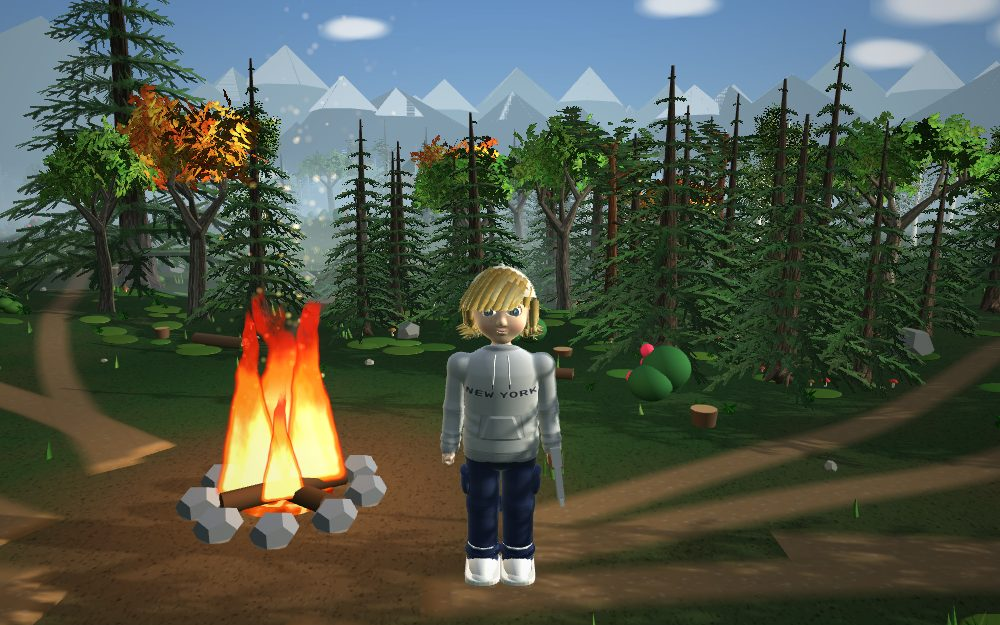
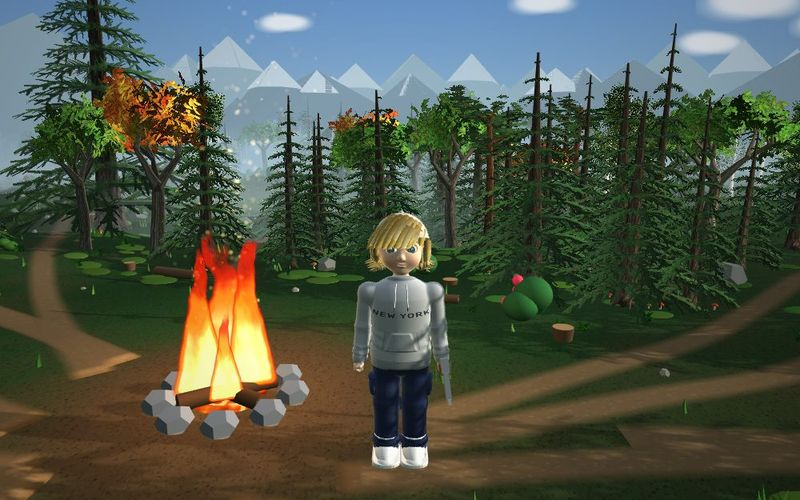
Kvalitet fase A del 1: Om med pappa, oppdaterte nyheter, riktige app-tekster, tilgjengelige spillkort, mindre bilder; Era Defenders v0.18.1 tillater zoom på menyer
Spillmekanikk, lagringsnøkler og GoatCounter er uendret. Nytt kortoppsett er ikke med (venter på Evens godkjenning).

Claude-Session: https://claude.ai/code/session_01MHiEAzBznnujooqyTbQ68h

diff --git a/index.html b/index.html
@@ -262,9 +262,9 @@
     </div>
     <div class="spill-liste">
       <!-- Nytt spill? Kopier et spillkort og bytt lenke, bilde, navn, stikkord og tekst. -->
-      <a class="spillkort inn" href="spill/eventyrspill/" aria-label="Spill Era Defenders">
+      <a class="spillkort inn" href="spill/eventyrspill/">
         <div class="bilde">
-          <img src="bilder/eventyr-epoke4.jpg" alt="Skjermbilde fra Era Defenders: piratskipet med basen og Piratkapteinen" loading="lazy">
+          <img src="bilder/eventyr-kort.jpg" alt="Skjermbilde fra Era Defenders: piratskipet med basen og Piratkapteinen" loading="lazy">
           <span class="avspill" aria-hidden="true"></span>
         </div>
         <div class="tekst">
@@ -275,7 +275,7 @@
         </div>
       </a>
 
-      <a class="spillkort inn" href="spill/morkeskogen/" aria-label="Spill Mørkeskogen">
+      <a class="spillkort inn" href="spill/morkeskogen/">
         <div class="bilde">
           <img src="bilder/morkeskogen.jpg" alt="Skjermbilde fra Mørkeskogen: spilleren ved bålet i skogen" loading="lazy">
           <span class="avspill" aria-hidden="true"></span>
@@ -288,7 +288,7 @@
         </div>
       </a>
 
-      <a class="spillkort inn" href="spill/fossilspillet/" aria-label="Spill Fossil Zoo">
+      <a class="spillkort inn" href="spill/fossilspillet/">
         <div class="bilde">
           <img src="bilder/fossilspillet.jpg" alt="Skjermbilde fra Fossil Zoo: graveren i en tunnel med mammuten som hjelper og glitrende fossiler i jorda" loading="lazy">
           <span class="merke klar">Nytt</span>
@@ -316,19 +316,19 @@
         <span class="ikon" aria-hidden="true">✨</span>
         <time datetime="2026-10-31">31. oktober 2026</time>
         <h3>Nye navn og enklere start</h3>
-        <p>Eventyrspillet heter nå Era Defenders, og fossilspillet heter Fossil Zoo. Alle spillene har fått en tydeligere startskjerm.</p>
+        <p>Spillene heter nå Era Defenders, Mørkeskogen og Fossil Zoo. Alle har fått en startskjerm som viser målet og hvordan du styrer.</p>
       </article>
       <article class="nyhet inn">
         <span class="ikon" aria-hidden="true">🦴</span>
         <time datetime="2026-10-31">31. oktober 2026</time>
-        <h3>Nytt spill: Fossil Zoo</h3>
-        <p>Grav etter fossiler gjennom istiden, krittiden og juratiden. Hver bit gir en ledetråd – klarer du å gjette dyret før det våkner?</p>
+        <h3>Fossil Zoo: tre tidsepoker og 13 dyr</h3>
+        <p>Grav deg ned gjennom jordas oldtid, mellomalder og nytid. Hver fossilbit gir en ledetråd – klarer du å gjette dyret før det våkner?</p>
       </article>
       <article class="nyhet inn">
         <span class="ikon" aria-hidden="true">⏳</span>
         <time datetime="2026-10-31">31. oktober 2026</time>
-        <h3>Eventyrspillet har fått sju tidsepoker</h3>
-        <p>Nytt: Robotfabrikken med EMP-kaster og Tidsvirvelen med tidsvåpen som fryser fiendene. Reis fra steinalderen helt til tidens ende!</p>
+        <h3>Era Defenders: sju tidsepoker</h3>
+        <p>Reis fra steinalderen helt til tidens ende. Nye steder er Robotfabrikken og Tidsvirvelen, med våpen som fryser fiendene.</p>
       </article>
     </div>
   </section>
@@ -342,17 +342,18 @@
     <div class="om">
       <div class="boks inn">
         <h3>Hvem står bak?</h3>
-        <p>EVN Studio er et spillstudio startet av Even, 9 år. Her lager vi spill med spennende verdener, morsomme utfordringer og nye eventyr. Even finner på ideene, bestemmer hvordan spillene skal være og tester dem selv. Han får hjelp av KI til å bygge spillene.</p>
+        <p>EVN Studio er spillstudioet til Even, 9 år, og pappaen hans. Even finner på spillene, bestemmer hvordan de skal være og tester dem selv. Sammen bruker de KI til å gjøre ideene til ekte spill som andre barn kan spille.</p>
         <p>Spillene er gratis, og alle kan prøve dem!</p>
-        <p id="personvern" class="liten"><b>Personvern:</b> Vi teller anonymt hvor mange som besøker siden, starter et spill og omtrent hvor lenge det spilles, med GoatCounter. Vi bruker ingen informasjonskapsler og samler ikke inn navn, e-post eller annen informasjon om hvem du er.</p>
+        <p id="personvern" class="liten">For voksne: Vi samler ikke inn navn eller e-post, og bruker ingen informasjonskapsler. Les mer om <a href="personvern/">personvern</a> og <a href="sikkerhet/">sikkerhet</a>.</p>
       </div>
       <div class="boks inn">
         <h3>📱 Spill som app</h3>
         <ol>
           <li>Åpne et spill i Safari eller Chrome.</li>
-          <li>Velg <b>Del → Legg til på Hjem-skjerm</b> (iPhone) eller <b>Installer app</b> (Android).</li>
-          <li>Spillet starter i fullskjerm, og fremgangen lagres.</li>
+          <li>Velg <b>Del → Legg til på Hjem-skjerm</b> (iPhone) eller <b>Legg til på startskjermen</b> (Android).</li>
+          <li>Nå har du spillet som et ikon. Fremgangen lagres på enheten.</li>
         </ol>
+        <p class="liten">Era Defenders åpnes i fullskjerm som en egen app. De andre spillene åpnes i nettleseren.</p>
       </div>
     </div>
   </section>

diff --git a/spill/eventyrspill/index.html b/spill/eventyrspill/index.html
@@ -6,8 +6,8 @@
 <meta http-equiv="Content-Security-Policy" content="default-src 'self'; script-src 'self' 'unsafe-inline' https://gc.zgo.at; style-src 'self' 'unsafe-inline'; font-src 'self'; img-src 'self' data: blob: https://evnstudio.goatcounter.com; connect-src 'self' https://evnstudio.goatcounter.com; media-src 'self' data: blob:; worker-src 'self'; manifest-src 'self'; object-src 'none'; base-uri 'self'; form-action 'none'; upgrade-insecure-requests">
 <meta name="referrer" content="strict-origin-when-cross-origin">
 <!-- EVN-SIKKERHET slutt -->
-<meta name="viewport" content="width=device-width, initial-scale=1, maximum-scale=1, user-scalable=no">
-<title>Era Defenders – v0.18</title>
+<meta name="viewport" content="width=device-width, initial-scale=1">
+<title>Era Defenders – v0.18.1</title>
 <link rel="manifest" href="manifest.json">
 <link rel="icon" href="ikoner/ikon-192.png">
 <link rel="apple-touch-icon" href="ikoner/apple-touch-icon.png">
@@ -18,6 +18,8 @@
 <meta name="apple-mobile-web-app-status-bar-style" content="black-translucent">
 <style>
   html, body { margin: 0; height: 100%; background: #10180f; overflow: hidden; font-family: system-ui, sans-serif; }
+  /* Zoom er tillatt (WCAG 1.4.4). Spillflaten bruker knip/dra selv; knapper og menyer slipper dobbelttrykk-zoom. */
+  button, a, summary, [role="button"] { touch-action: manipulation; }
   canvas { display: block; width: 100%; height: 100%; cursor: none; touch-action: none; -webkit-user-select: none; user-select: none; -webkit-touch-callout: none; }
   #baseKnapp { position: fixed; top: 16px; left: 50%; transform: translateX(-50%); padding: 10px 16px; font-size: 16px; font-weight: bold;
     background: #6b4a2b; color: #ffe9b0; border: 3px solid #3d2a17; border-radius: 10px; cursor: pointer; display: none; }

diff --git a/sikkerhet/index.html b/sikkerhet/index.html
@@ -42,7 +42,7 @@
 <header><div class="bredde"><a href="../"><img src="../logo-lys.png" alt="EVN Studio" width="59" height="44"></a><a href="../">← Til forsiden</a></div></header>
 <main><div class="bredde">
 <h1>Sikkerhet</h1>
-<p class="ingress">EVN Studio er et lite, ikke-kommersielt nettsted med gratis spill i nettleseren. Spillene er laget av Even (9 år) sammen med en forelder. Denne siden er skrevet for foreldre, skoler og IT-avdelinger som vil vurdere nettstedet.</p>
+<p class="ingress">EVN Studio er et lite, ikke-kommersielt nettsted med gratis spill i nettleseren. Spillene er laget av Even (9 år) og pappaen hans. Denne siden er skrevet for foreldre, skoler og IT-avdelinger som vil vurdere nettstedet.</p>
 <p class="oppdatert">Sist oppdatert 31.10.2026</p>
 
 <h2>Kort fortalt</h2>

diff --git a/spill/eventyrspill/sw.js b/spill/eventyrspill/sw.js
@@ -1,6 +1,6 @@
 // Service worker: gjør at spillet kan spilles uten internett etter første gang.
 // Øk versjonsnummeret når spillet oppdateres, så mobilen henter den nye versjonen.
-const CACHE = 'eventyrspill-v0.20';
+const CACHE = 'eventyrspill-v0.21';
 const FILER = ['./', 'index.html', 'manifest.json', 'ikoner/logo.png', 'ikoner/ikon-192.png', 'ikoner/ikon-512.png', 'ikoner/ikon-maskable-512.png', 'ikoner/apple-touch-icon.png'];
 
 self.addEventListener('install', e => {

diff --git a/ENDRINGSLOGG.md b/ENDRINGSLOGG.md
@@ -6,6 +6,7 @@ er små – se på retning over flere uker, ikke på enkeltdager.
 
 | Dato | Hva | Spill | Kan påvirke |
 |---|---|---|---|
+| 2026-10-31 (FASEATID) | **Kvalitet fase A, del 1.** Om-teksten sier nå «Even, 9 år, og pappaen hans». Nyhetene er oppdatert til dagens spillnavn og innhold. «Spill som app» stemmer for hvert spill. Personvernavsnittet i Om er kortet ned til en lenke. Spillkortene har fått riktig tilgjengelig navn (WCAG 2.5.3). Bildene er gjort mindre: forsiden er 421 kB på mobil, mot 601 kB før. Era Defenders v0.18.1 tillater zoom (WCAG 1.4.4): knip på menyene zoomer, mens spillflaten er uendret. Spillkortenes oppsett er ikke endret, det venter på at Even godkjenner det. | Forside, Era Defenders | Ingen forventet effekt på spillstarter |
 | 2026-10-31 ca. 19:46 | **Sikkerhet fase 2–3.** three.js r128 og skrifter (Rubik, Nunito, Lilita One) ligger nå på evnstudio.no i stedet for cdnjs og Google Fonts. Innholdspolicy (CSP) og referrer-policy på alle sider. Nye sider: /sikkerhet/, /personvern/ og /.well-known/security.txt, med lenker i bunnteksten. Spillmekanikk, lagring og statistikk er uendret. Commit c8b1b00. | Alle | Ingen forventet effekt. Ellers kan det tyde på at CSP blokkerer statistikken. |
 | 2026-10-31 ca. 16:40 | Fossil Zoo v0.4 → v0.6 fra Fossil-samtalen: tre tidsepoker med egne verdener, 13 dyr, «Tau opp», tidsepoke-velger. Gammel lagring flyttes over automatisk (funnede bein og vekkede dyr beholdes, gravingen starter på nytt). Avslutt spør først. Commit e60f13e. | Fossil Zoo | Spillstarter, spilletid |
 | 2026-10-31 ca. 16:30 | **Runde 1 – Kom i gang.** Ny forside: alle spill synlige tidligere, nye navn (Era Defenders, Mørkeskogen, Fossil Zoo), slagordet «Laget av barn. For barn.», ny Om-tekst. Nye startskjermer med mål og styring for PC eller mobil. Avslutt spør først. Commits 8a9987e, f6bcef5, 81b9262. | Alle | Spillstarter, besøk på spillsidene |
